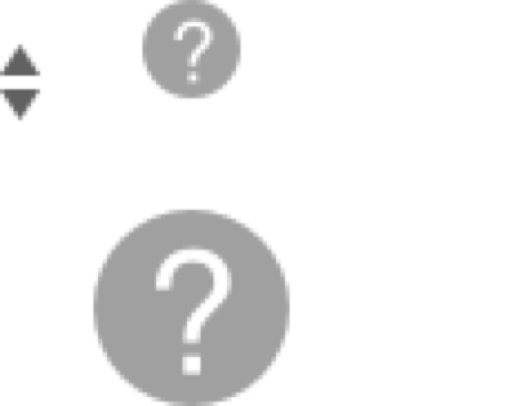
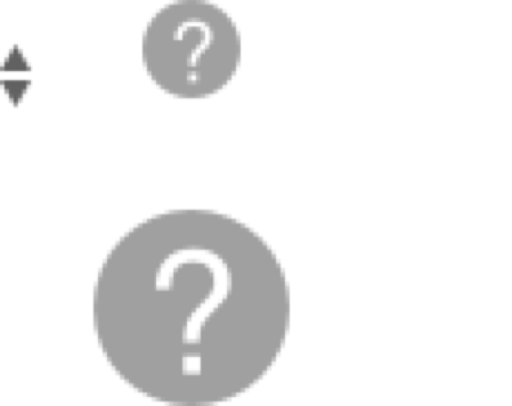
Tweak select menu control

Changed region(s): [[0.0, 0.0887, 0.0938, 0.2956]]

diff --git a/app/assets/stylesheets/common.css.scss b/app/assets/stylesheets/common.css.scss
@@ -249,7 +249,7 @@ form {
 
 select.form-control {
   background: url(image_path('select-control.png')) no-repeat right center;
-  @include image-2x('select-control@2x.png', 15px, 17px);
+  @include image-2x('select-control@2x.png', 17px, 14px);
   -webkit-appearance: none;
 }
 
